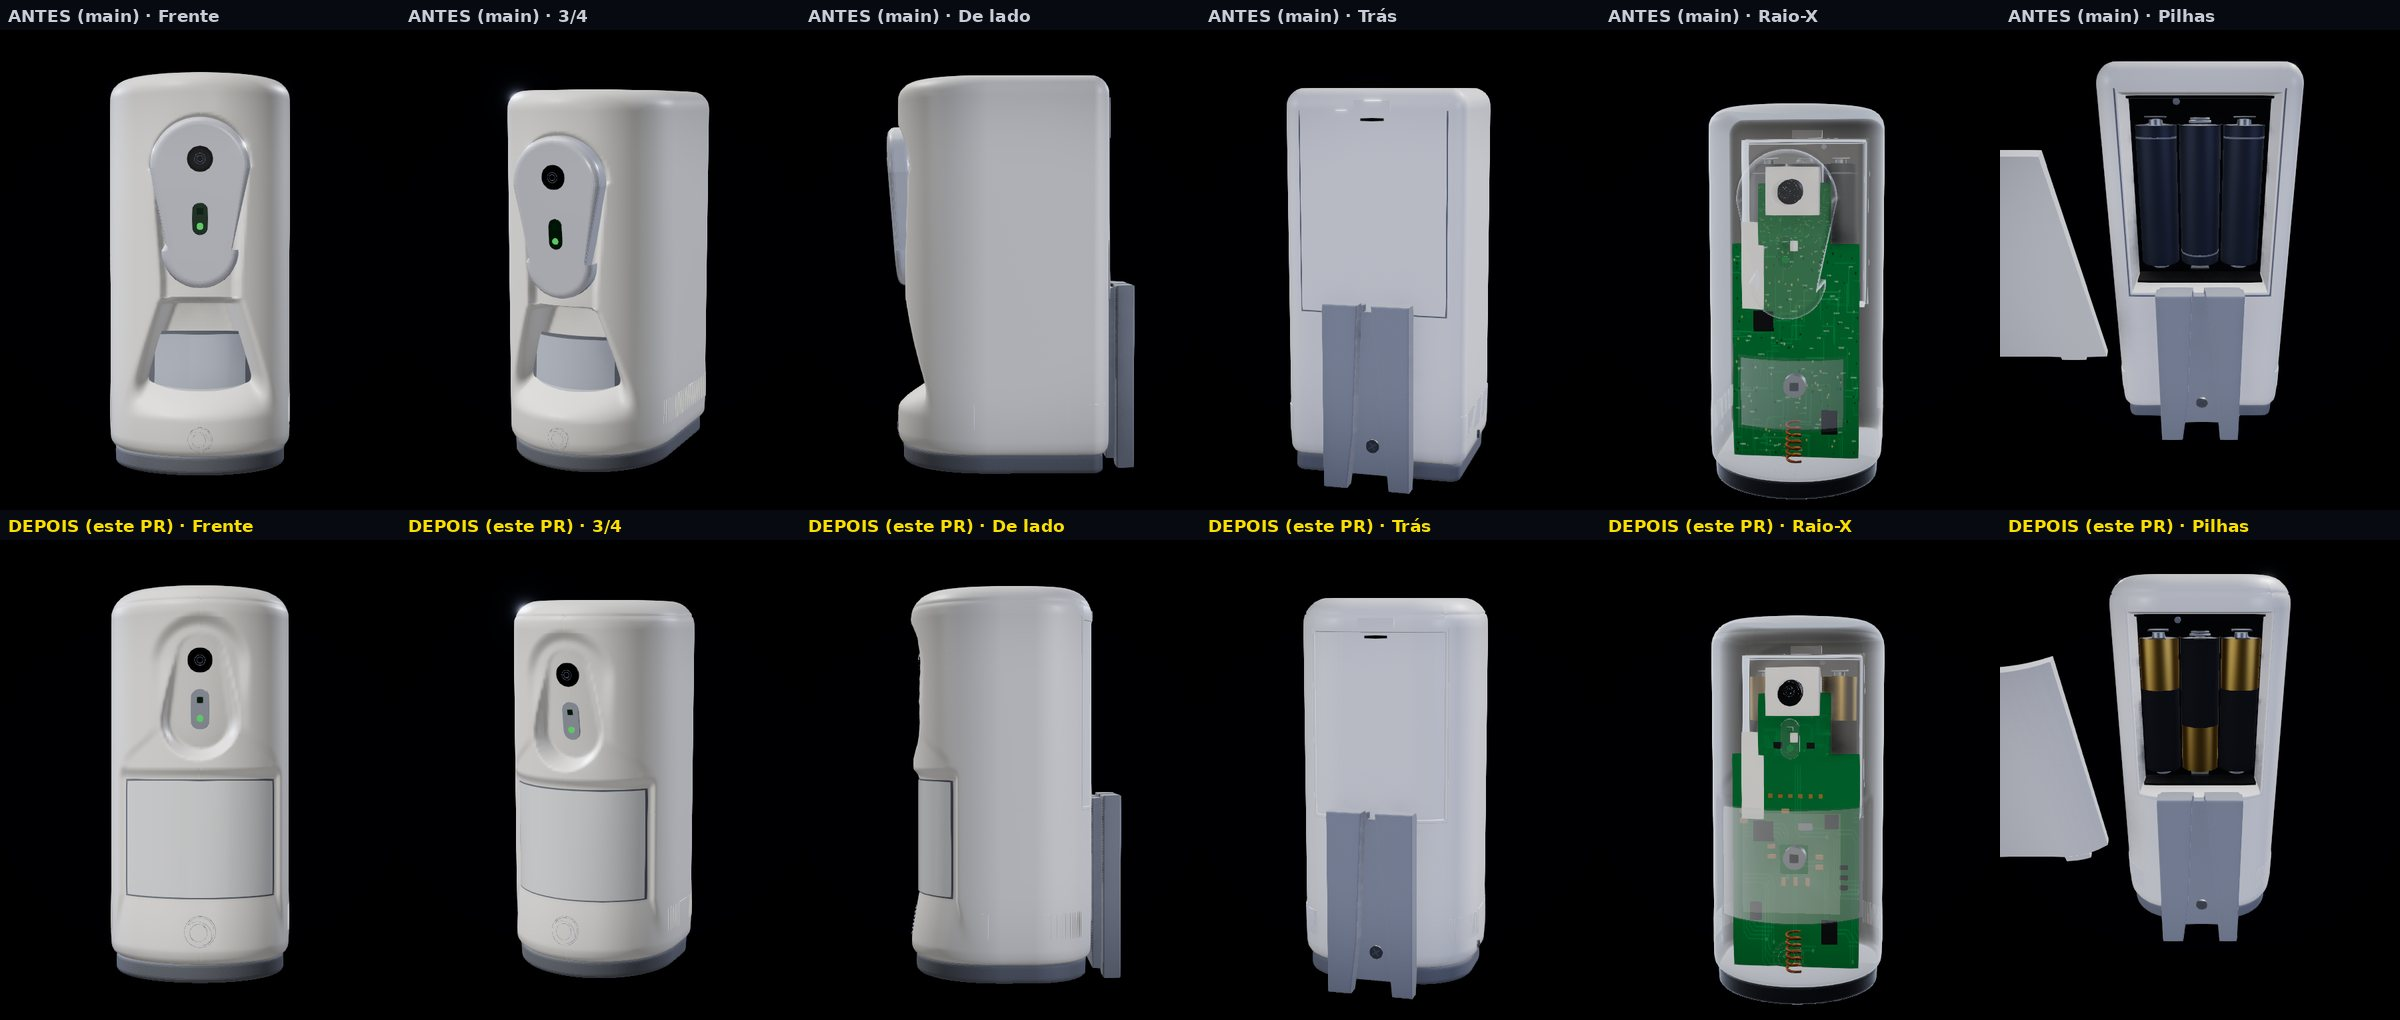
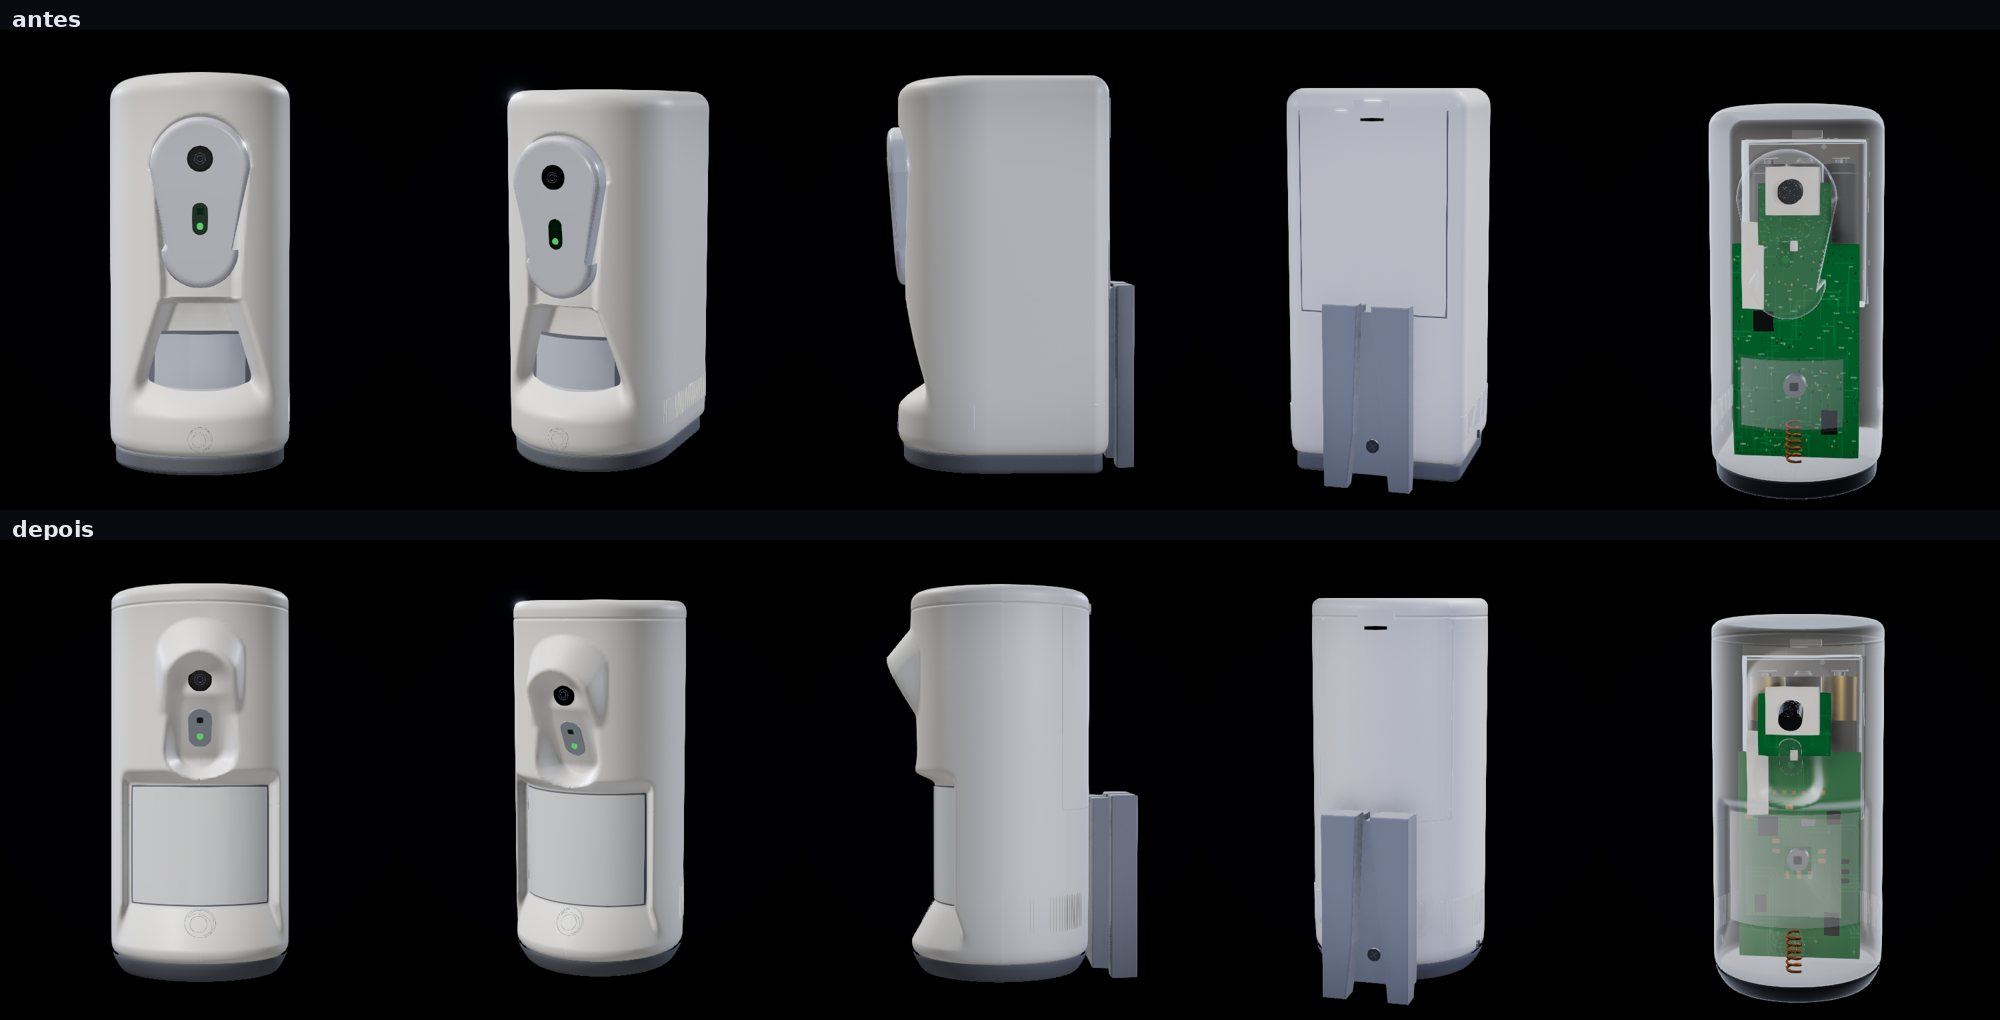
Docs, prints e imagem da abertura: formas externas pelas medidas
MODELAGEM.md e README descrevem o fotossensor, o magnético e o controle
como ficaram; folhas de antes/depois do módulo, do fotossensor, da sirene
e do controle refeitas (só o modelo, sem foto de referência); imagem da
abertura regenerada com os aparelhos novos.

Sem mudança de material, geometria ou carga neste commit: programas de
shader 56 e triângulos da abertura 246.753, como no commit anterior.

Claude-Session: https://claude.ai/code/session_01JGedzfrxJd5vL5mskTPSnU

diff --git a/docs/MODELAGEM.md b/docs/MODELAGEM.md
@@ -28,30 +28,30 @@ A tampa é uma superfície só: topo plano e nivelado, de 58,5 mm de raio, e lat
 
 Vista explodida, de cima para baixo: cúpula; placa (com o cartão do chip um pouco acima); caixinha do alto-falante; bateria; base cinza, que fica parada com a antena.
 
-## Fotossensor (68 × 144 × 94 mm com base e placa de fixação; 1 un = 79 mm; frente em +Z)
+## Fotossensor (68 × 144 × 95 mm com base e suporte de parede; 1 un = 79 mm; frente em +Z)
 
-O corpo tem 68 mm de largura, 137 de altura e a planta fecha um círculo: é tão fundo quanto largo, com a frente em meio-cilindro e a traseira bem arredondada. É uma casca gerada como superfície paramétrica (volta do contorno × altura), com a borda do topo arredondada e o sulco fino da tampa de cima. A frente tem três rebaixos, todos para DENTRO do corpo: o capuz raso em arco; dentro dele, o bolso da câmera e do LED, em forma de pera alongada, com o fundo inclinado (raso em cima, mais fundo embaixo), onde ficam a lente e a janela oval do LED (não há peça saliente); e a moldura da lente PIR, um painel fosco grande (~53 × 42 mm), curvo como o corpo e ~3 mm para dentro dele, com a prateleira em cima, os chanfros dos lados e o queixo embaixo, onde fica o logo. O funil que leva até o sensor PIR fica por dentro, atrás da lente.
+O corpo é um cilindro de 68 mm de diâmetro e 137 de altura (medidas externas do aparelho), de topo plano com a borda arredondada curta (~4 mm) e um sulco fino em volta, perto do topo. É uma casca gerada como superfície paramétrica (volta do contorno × altura). A frente é esculpida por duas funções: `hoodOffset`, o capuz da câmera, e `lensRecess`, a moldura da lente PIR. O capuz é um ressalto em forma de pera que nasce rente ao corpo no alto, sai até ~10 mm para fora logo acima da câmera (a sobrancelha) e, daí para baixo, vira a borda de um bolso escavado de fundo inclinado: quase rente ao corpo na altura da lente e ~15 mm para dentro embaixo, onde fica a janela oval do LED. A lente PIR é um painel fosco grande (~50 × 43 mm), curvo como o corpo e ~9 mm para dentro dele, com a prateleira em cima, os chanfros dos lados e o queixo em rampa embaixo, onde fica o logo. O funil que leva até o sensor PIR fica por dentro, atrás da lente.
 
 | part.id | Como é modelada |
 |---|---|
-| `camera` | Lente em cilindros concêntricos, na cápsula em pílula (um pouco mais larga em cima), dentro do corte do capuz. |
-| `flash` | Janela escura com o emissor branco. |
+| `camera` | Lente em cilindros concêntricos, quase na vertical, no alto do bolso do capuz, sob a sobrancelha. |
+| `flash` | Janela oval vertical (~8 × 15 mm) deitada na rampa do bolso, com o emissor branco. |
 | `led` | Ponto emissivo abaixo do flash. |
-| `pir` | Janela leitosa levemente curva, com faixas de Fresnel discretas, no fundo do rebaixo de baixo (atrás da linha do corpo). A faixa em trapézio é a rampa de cima desse rebaixo. |
-| `base` | Faixa cinza fosca, recuada, com o fundo arredondado. |
-| `suporte` | Trilhos cinza em Λ (mais próximos no alto) da placa de fixação na parede (~31 × 67 mm, ~11 mm de espessura), com os pés na altura da base. O sensor inclina no eixo horizontal do pé. |
-| `placas` (i) | Armação interna com a placa da câmera em cima, a placa do PIR no meio e a antena em mola embaixo (pelas fotos e vídeos; sem etiquetas). |
-| `tampa-traseira` | Cobre a metade de cima da traseira (o compartimento das pilhas): trava no topo, duas abas embaixo, nervuras e etiqueta lisa por dentro. |
+| `pir` | Janela leitosa curva como o corpo, no fundo da moldura (~9 mm atrás da linha do corpo). A faixa em trapézio embaixo é o queixo em rampa. |
+| `base` | Base cinza fosca em `LatheGeometry`: quase rente ao corpo em cima e ~4 mm mais estreita embaixo, com o canto arredondado. |
+| `suporte` | Trilhos cinza em Λ (mais próximos no alto) do suporte de parede (~31 × 67 mm), com os pés na altura da base; com a placa, afastam o corpo ~16 mm da parede. O sensor inclina no eixo horizontal do pé. |
+| `placas` (i) | Placa principal em pé, logo à frente do berço das pilhas (atrás do eixo do aparelho), com o sensor PIR no fundo do funil; placa da câmera em cima, junto ao capuz; antena em mola embaixo. Posições aproximadas, sem etiquetas. |
+| `tampa-traseira` | Acompanha a curva de trás (~54 mm de largura), da metade da altura até o sulco perto do topo: trava no topo, duas abas embaixo, nervuras e etiqueta lisa por dentro. Em volta da metade de trás, perto da base, a faixa de frisos verticais finos. |
 | `pilhas` (i) | 3 pilhas AA na vertical, nas proporções reais (50,5 × 14,5 mm), com polaridades alternadas, num berço preto com mola e contato; pino do anti-sabotagem no alto. Corpo preto com faixa dourada no lado do +, sem marca nem texto. Não saem do compartimento. |
 | `fixacao` | Placa cinza entre os trilhos, num nível mais fundo, com o entalhe retangular no alto e um parafuso perto de baixo. |
 
-## Sensor Magnético (corpo 93 × 25 × 28 mm, ímã 92 × 12 × 15 mm, vão de 7 mm; 1 un = 49,5 mm; frente em +Z)
+## Sensor Magnético (corpo 92,6 × 24 × 27,6 mm, ímã 92,3 × 11 × 15 mm, vão de 7 mm; 1 un = 49,5 mm; frente em +Z)
 
 | part.id | Como é modelada |
 |---|---|
-| `corpo` | Barra de cantos pouco arredondados (quase uma caixa), em duas peças: a base atrás e a tampa na frente, com a emenda entre elas. Na face: o logo em relevo, pequeno, um pouco antes do meio; a janela do LED; e, perto de uma ponta, a emenda da tampinha, que dá a volta na frente e nos lados. |
+| `corpo` | Barra de cantos pouco arredondados (quase uma caixa), em duas peças: a base atrás e a tampa na frente, com a emenda entre elas. Na face: o logo em relevo, no meio do comprimento; a janela do LED; e, perto de uma ponta, a emenda da tampinha, que dá a volta na frente e nos lados. |
 | `ima` | Barra fina e longa (quase o comprimento do corpo, metade da altura e da profundidade), paralela e alinhada, com vão de poucos milímetros. Na cena da porta fica no batente; o corpo vai na folha. |
-| `led` | Janela escura pequena (~6 × 3 mm), atravessada na face, entre o logo e a tampinha da ponta, com LED emissivo. |
+| `led` | Janela escura pequena (~8 × 4 mm), atravessada na face, a 18 mm do meio, entre o logo e a tampinha da ponta, com LED emissivo. |
 | `placa`, `choque` (i) | Placa verde comprida e estreita (~74 × 19 mm, pela foto da placa): borne preto de 2 parafusos num canto, do lado da tampinha; na outra ponta, a antena em mola de cobre, que sai para fora da placa e ocupa o resto do corpo; fila de cinco pontos de teste numa borda; sensor do ímã no canto da antena; chip do sensor de choque. Sem etiqueta. |
 | `bateria` (i) | Pilha cilíndrica deitada sobre a placa, presa por duas presilhas metálicas; corpo preto e faixa dourada no +, sem marca. |
 
@@ -72,18 +72,18 @@ São duas peças. A sirene em si é só a cúpula, de 36 mm de altura: face plan
 
 A traseira também tem os furos quadrados e os ganchos em "L" do encaixe, e a etiqueta como um retângulo liso.
 
-## Controle Remoto (45 × 51 × 13 mm; 1 un = 25,9 mm; frente em +Z)
+## Controle Remoto (44 × 51 × 13 mm; 1 un = 25,9 mm; frente em +Z)
 
-O corpo é gordinho (um seixo, não uma moeda): duas placas finas no contorno inteiro, com a aba fina da argola, e dois ombros arredondados feitos como sólidos de revolução, um na frente e um atrás. Espessura no meio de ~14 mm.
+O corpo é um seixo, não uma moeda: duas placas finas no contorno inteiro, em gota (círculo de 22 mm de raio que se funde, por concordâncias largas, com o olhal da argola, um círculo de ~6 mm de raio com o centro quase na borda do corpo), e dois ombros arredondados feitos como sólidos de revolução, um na frente e um atrás. Espessura no meio de ~13 mm; o teclado fica no centro do corpo.
 
 | part.id | Como é modelada |
 |---|---|
 | `btn-panico`, `btn-desarmar`, `btn-armar`, `btn-parcial` | Setores de anel extrudados, em cruz, com o ícone em textura. |
 | centro (sem `id`) | Disco fixo, modelado com o corpo; não é botão. Logo em baixo-relevo discreto (a confirmar). |
-| `led` | Fenda no topo. |
+| `led` | Fenda de ~7 × 2 mm na parte plana da frente, entre o teclado e a borda de cima. |
 | `corpo` | Um só bloco em gota (extrusão com chanfro), preto soft-touch, com o filete azul em volta. Atrás, o aro grosso com a cavidade da bateria. |
-| `argola` | O furo na ponta do bloco, com a borda chanfrada. |
-| `tampa` | Circular, fecha a cavidade inteira (a placa não aparece em volta). No alto, a presilha: uma aba curta com a fenda por onde a tampa abre e fecha. Por dentro: nervura em U e etiqueta lisa. |
+| `argola` | Furo oval deitado (~6,5 × 4 mm) perto da ponta do olhal, com a borda chanfrada. |
+| `tampa` | Disco com um lado reto, girado 45° em relação ao olhal: no lado reto, duas abas que engancham; no lado oposto, a presilha, uma aba curta com a fenda por onde a tampa abre e fecha. Fora do lado reto a casca de trás é fechada (a placa não aparece por fora). Por dentro: nervura em U e etiqueta lisa. |
 | `bateria` (i) | CR2032 prateada com o "+" gravado, no suporte preto com a lâmina de contato dourada, sobre a placa verde. Do outro lado da placa, sob os botões: 4 chaves em domo dourado, o chip no centro, o LED e a antena de fio amarelo. |
 
 ## Placa de aviso (1,5 × 2,0)

diff --git a/README.md b/README.md
@@ -112,4 +112,5 @@ A lista de partes de cada aparelho, com primitivas, proporções e materiais, es
 - Disco central do controle: não é botão. A arte de marketing mostra o logo nele e o ícone do sistema mostra liso; o demo usa o logo em baixo-relevo discreto.
 - Sensor magnético: a foto de instalação mostra o corpo na folha da porta e o ímã no batente (o texto antigo dizia o contrário); confirmar no manual. As fotos novas do sensor instalado mostram só as duas peças (corpo e ímã); o terceiro bloco branco da foto antiga não faz parte dele. Qual ponta fica com o borne e qual com a antena é suposição: a foto da placa não mostra o lado da tampinha.
 - Módulo: a antena sai atrás, fora do centro, ao lado do bolsão dos cabos (pelo vídeo do fundo e pela foto de estúdio); a distância até o centro é estimada. O contorno da tampa e da base segue as medidas externas do aparelho; nervuras, pés, rebaixo do fundo e o que fica por dentro saem das fotos e são aproximados. O QR do adesivo "Dúvidas?" é ilustrativo (não codifica nada).
+- Fotossensor, sensor magnético e controle: o contorno externo (corpo, capuz da câmera, moldura da lente PIR, tampa das pilhas, olhal e tampa do controle) segue as medidas externas dos aparelhos; o que fica por dentro é só a posição aproximada das peças grandes.
 - Sirene: cúpula e suporte seguem as medidas externas; a posição exata das travas, do tamper e da placa é aproximada. A cor e o tamanho da bateria vêm do vídeo e do espaço do berço.
